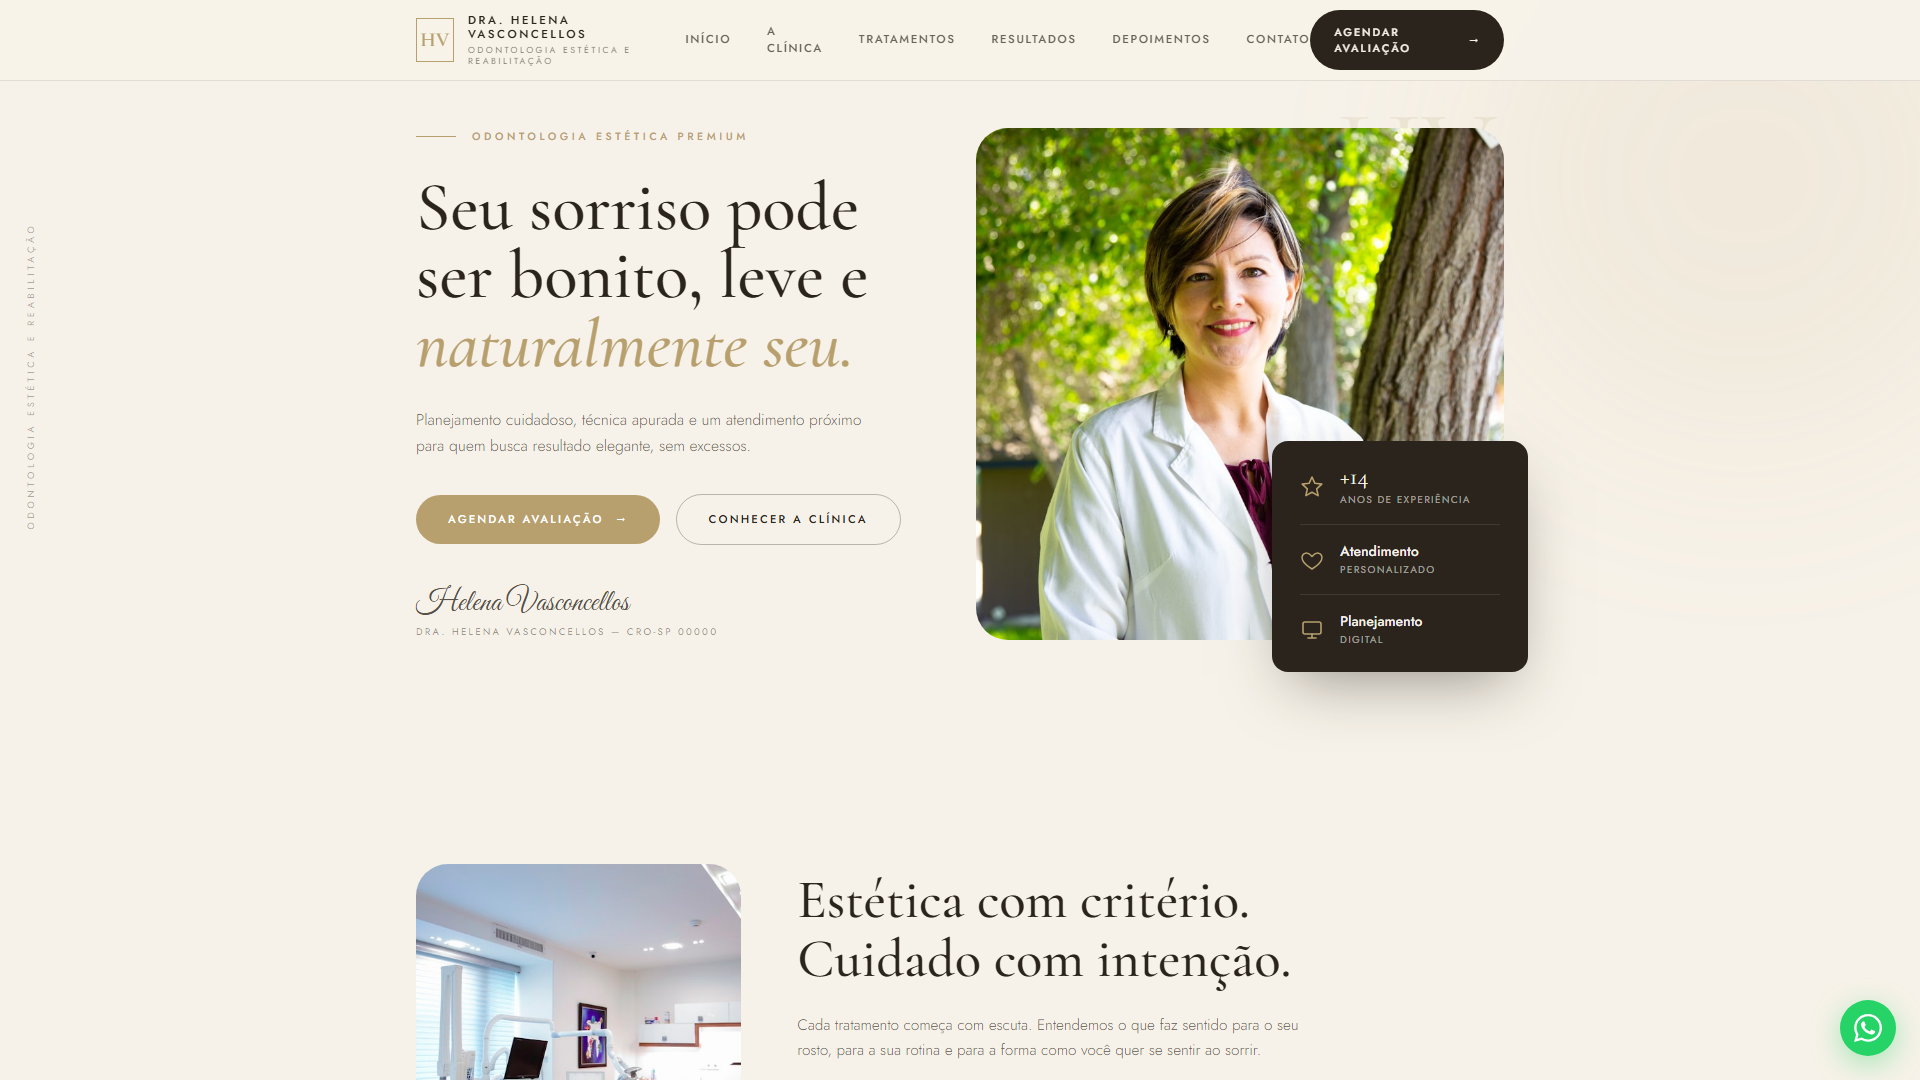
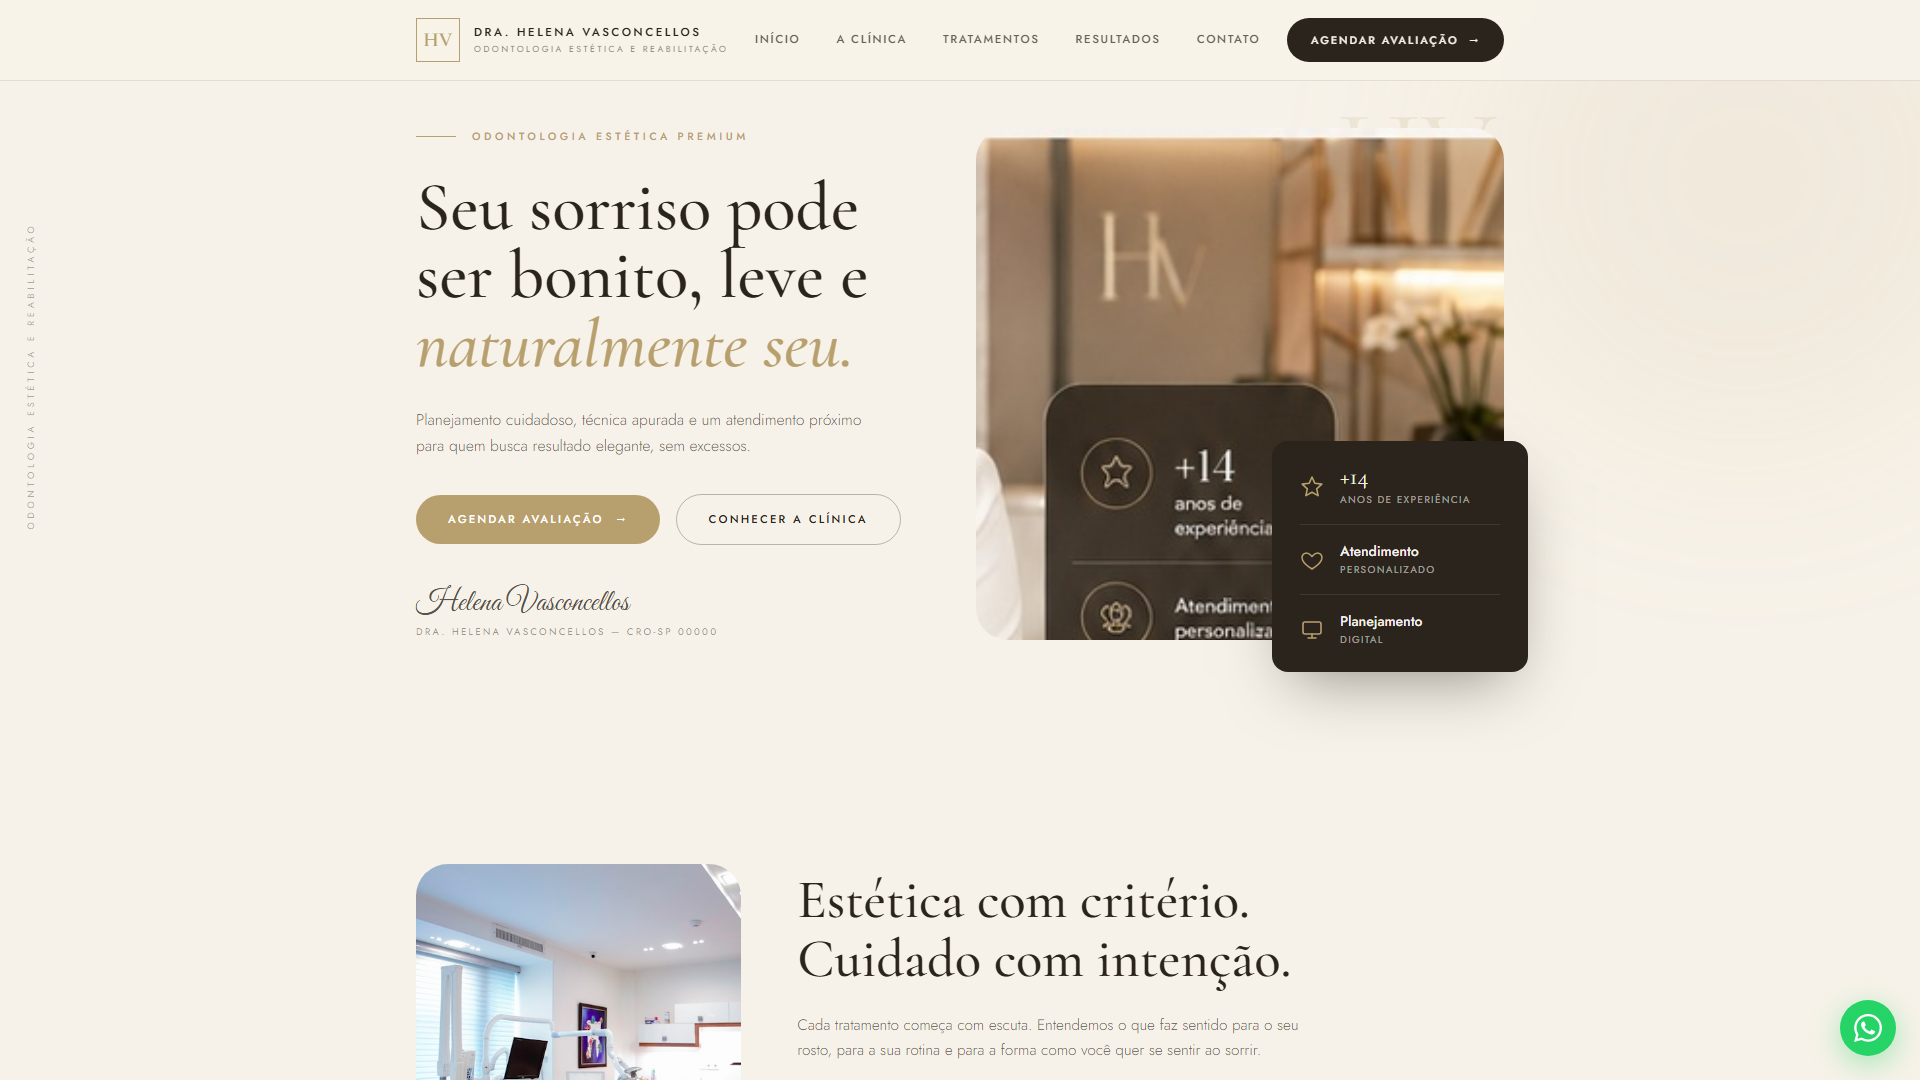
fix: remove depoimentos fake do evora e usa fotos reais do prototipo (hero + espaco)

Changed region(s): [[0.2188, 0.0, 0.7812, 0.6111]]

diff --git a/evora/index.html b/evora/index.html
@@ -44,7 +44,6 @@
       <a href="#clinica" class="hover:text-[#B8A06E] transition-colors">A clínica</a>
       <a href="#tratamentos" class="hover:text-[#B8A06E] transition-colors">Tratamentos</a>
       <a href="#resultados" class="hover:text-[#B8A06E] transition-colors">Resultados</a>
-      <a href="#depoimentos" class="hover:text-[#B8A06E] transition-colors">Depoimentos</a>
       <a href="#contato" class="hover:text-[#B8A06E] transition-colors">Contato</a>
     </nav>
     <a href="https://wa.me/5547989258264?text=Ol%C3%A1!%20Vi%20o%20conceito%20%C3%89VORA%20%28cl%C3%ADnica%20de%20harmoniza%C3%A7%C3%A3o%29%20no%20portf%C3%B3lio%20da%20Timothy%20Studios%20e%20quero%20um%20site%20assim%20para%20o%20meu%20neg%C3%B3cio." target="_blank" rel="noopener noreferrer" class="hidden sm:inline-flex items-center gap-2.5 bg-[#2A241D] text-[#F7F2E9] text-[0.68rem] font-medium uppercase tracking-[0.18em] px-6 py-3.5 rounded-full hover:bg-[#B8A06E] transition-colors">
@@ -91,7 +90,7 @@
       <div class="lg:col-span-6 relative reveal" style="transition-delay:250ms">
         <span class="absolute -top-8 right-2 font-display text-[7rem] leading-none text-[#B8A06E]/15 select-none pointer-events-none hidden md:block" aria-hidden="true">HV</span>
         <div class="relative rounded-[2rem] overflow-hidden">
-          <img src="https://images.unsplash.com/photo-1559839734-2b71ea197ec2?w=1200&q=80" alt="Dra. Helena Vasconcellos em seu consultório, sorrindo com blazer branco" class="w-full h-[26rem] lg:h-[32rem] object-cover object-top">
+          <img src="../img/evora-hero.jpg" alt="Dra. Helena Vasconcellos em seu consultório, sorrindo com blazer branco" class="w-full h-[26rem] lg:h-[32rem] object-cover object-top">
         </div>
         <!-- card flutuante -->
         <div class="absolute -bottom-8 right-4 lg:-right-6 bg-[#2A241D] text-[#F7F2E9] rounded-2xl px-7 py-6 shadow-[0_24px_60px_-20px_rgba(42,36,29,0.5)] w-64">
@@ -295,48 +294,6 @@
   </div>
 </section>
 
-<!-- DEPOIMENTOS -->
-<section id="depoimentos" class="relative bg-[#FDFBF6] py-20 lg:py-28">
-  <div class="max-w-6xl mx-auto px-5 lg:px-8">
-    <div class="grid lg:grid-cols-12 gap-12 lg:gap-14">
-
-      <div class="lg:col-span-4">
-        <h2 class="reveal font-display text-[#2A241D] font-medium leading-[1.1] text-4xl lg:text-[3rem]">
-          Quem passa por aqui percebe a diferença nos detalhes.
-        </h2>
-      </div>
-
-      <div class="lg:col-span-8">
-        <div class="grid sm:grid-cols-3 gap-6">
-          <figure class="reveal card-lift bg-white rounded-2xl border border-[#2A241D]/10 p-7">
-            <div class="flex items-center gap-4">
-              <img src="https://images.unsplash.com/photo-1438761681033-6461ffad8d80?w=200&q=80" alt="Foto de Marina" class="w-14 h-14 rounded-full object-cover">
-              <blockquote class="text-[0.82rem] font-light leading-relaxed text-[#2A241D]/75">"Me senti segura desde a primeira consulta. O resultado ficou bonito sem parecer artificial."</blockquote>
-            </div>
-            <figcaption class="mt-5 text-[0.8rem] font-semibold tracking-wide">Marina, <span class="font-light text-[#2A241D]/55">34</span></figcaption>
-          </figure>
-
-          <figure class="reveal card-lift bg-white rounded-2xl border border-[#2A241D]/10 p-7" style="transition-delay:120ms">
-            <div class="flex items-center gap-4">
-              <img src="https://images.unsplash.com/photo-1507003211169-0a1dd7228f2d?w=200&q=80" alt="Foto de Rafael" class="w-14 h-14 rounded-full object-cover">
-              <blockquote class="text-[0.82rem] font-light leading-relaxed text-[#2A241D]/75">"Gostei da clareza no planejamento e do cuidado em cada etapa."</blockquote>
-            </div>
-            <figcaption class="mt-5 text-[0.8rem] font-semibold tracking-wide">Rafael, <span class="font-light text-[#2A241D]/55">41</span></figcaption>
-          </figure>
-
-          <figure class="reveal card-lift bg-white rounded-2xl border border-[#2A241D]/10 p-7" style="transition-delay:240ms">
-            <div class="flex items-center gap-4">
-              <img src="https://images.unsplash.com/photo-1494790108377-be9c29b29330?w=200&q=80" alt="Foto de Camila" class="w-14 h-14 rounded-full object-cover">
-              <blockquote class="text-[0.82rem] font-light leading-relaxed text-[#2A241D]/75">"A clínica é linda, mas o atendimento foi o que realmente me conquistou."</blockquote>
-            </div>
-            <figcaption class="mt-5 text-[0.8rem] font-semibold tracking-wide">Camila, <span class="font-light text-[#2A241D]/55">29</span></figcaption>
-          </figure>
-        </div>
-      </div>
-    </div>
-  </div>
-</section>
-
 <!-- O ESPAÇO -->
 <section id="espaco" class="relative bg-[#F7F2E9] py-20 lg:py-28">
   <div class="max-w-6xl mx-auto px-5 lg:px-8">
@@ -353,10 +310,10 @@
 
       <div class="lg:col-span-9">
         <div class="grid grid-cols-2 md:grid-cols-4 gap-4">
-          <div class="reveal photo-zoom rounded-2xl overflow-hidden"><img src="https://images.unsplash.com/photo-1629909613654-28e377c37b09?w=600&q=80" alt="Recepção da clínica" class="w-full h-56 md:h-64 object-cover"></div>
-          <div class="reveal photo-zoom rounded-2xl overflow-hidden" style="transition-delay:80ms"><img src="https://images.unsplash.com/photo-1606811841689-23dfddce3e95?w=600&q=80" alt="Consultório odontológico moderno" class="w-full h-56 md:h-64 object-cover"></div>
-          <div class="reveal photo-zoom rounded-2xl overflow-hidden" style="transition-delay:160ms"><img src="https://images.unsplash.com/photo-1588776814546-1ffcf47267a5?w=600&q=80" alt="Sala de atendimento da clínica" class="w-full h-56 md:h-64 object-cover"></div>
-          <div class="reveal photo-zoom rounded-2xl overflow-hidden" style="transition-delay:240ms"><img src="https://images.unsplash.com/photo-1519494026892-80bbd2d6fd0d?w=600&q=80" alt="Lounge de espera sofisticado" class="w-full h-56 md:h-64 object-cover"></div>
+          <div class="reveal photo-zoom rounded-2xl overflow-hidden"><img src="../img/evora-espaco-1.jpg" alt="Recepção da clínica" class="w-full h-56 md:h-64 object-cover"></div>
+          <div class="reveal photo-zoom rounded-2xl overflow-hidden" style="transition-delay:80ms"><img src="../img/evora-espaco-2.jpg" alt="Consultório odontológico moderno" class="w-full h-56 md:h-64 object-cover"></div>
+          <div class="reveal photo-zoom rounded-2xl overflow-hidden" style="transition-delay:160ms"><img src="../img/evora-espaco-3.jpg" alt="Sala de atendimento da clínica" class="w-full h-56 md:h-64 object-cover"></div>
+          <div class="reveal photo-zoom rounded-2xl overflow-hidden" style="transition-delay:240ms"><img src="../img/evora-espaco-4.jpg" alt="Lounge de espera sofisticado" class="w-full h-56 md:h-64 object-cover"></div>
         </div>
       </div>
     </div>
@@ -424,7 +381,6 @@
           <ul class="grid grid-cols-2 gap-x-8 gap-y-2.5 text-[0.82rem] font-light text-[#F7F2E9]/70">
             <li><a href="#inicio" class="hover:text-[#B8A06E] transition-colors">Início</a></li>
             <li><a href="#tratamentos" class="hover:text-[#B8A06E] transition-colors">Tratamentos</a></li>
-            <li><a href="#depoimentos" class="hover:text-[#B8A06E] transition-colors">Depoimentos</a></li>
             <li><a href="#clinica" class="hover:text-[#B8A06E] transition-colors">A clínica</a></li>
             <li><a href="#resultados" class="hover:text-[#B8A06E] transition-colors">Resultados</a></li>
             <li><a href="#contato" class="hover:text-[#B8A06E] transition-colors">Contato</a></li>
